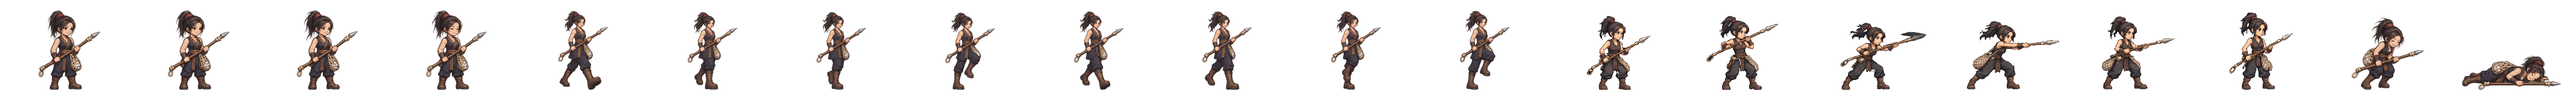
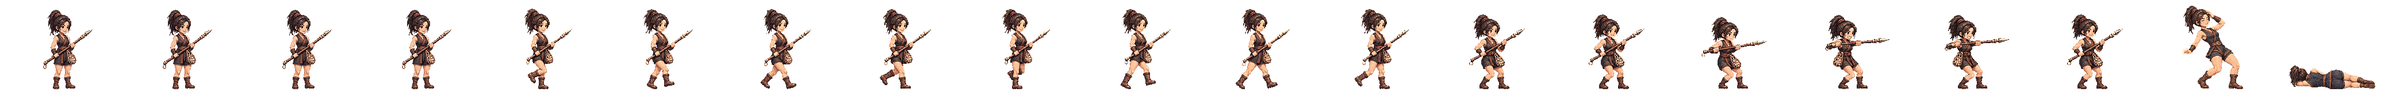
해녀 새 전투 띠를 게임에 넣음(서기·걷기·작살 찌르기·쓰러짐·젖은 머리 털기)
찌르기 뒤 판은 그림 도구가 거절해 앞 판 네 칸으로 여덟 칸을 짰다(타격 = 넷째 칸).
strip-build: 뒤 판이 없는 장수는 좁은 칸 공격 여덟 칸을 붙이지 않는다(넓은 칸 장수는 어차피 버리는 칸).
띠 검사 합격(경고: 공격 끝 칸 윗몸 15px 뒤) · 시험 2162 통과.

Claude-Session: https://claude.ai/code/session_01TRiuN7s6aDfSnaHxrkctmU

Changed region(s): [[0.4688, 0.0938, 1.0, 0.9688], [0.2188, 0.125, 0.4375, 0.9688], [0.0, 0.125, 0.1875, 0.9688]]

diff --git a/src/realm/data/spritePx.ts b/src/realm/data/spritePx.ts
@@ -1,3 +1,3 @@
 /** public/realm/anim-px/manifest.json 의 사본 — tools/sprite-normalize.mjs 가 만든다 (손으로 고치지 말 것). 칸 [가로, 세로] · feet = 발 줄(칸 위에서 y) · bodyPx = 서 있는 몸 키 */
 import { expandManifest } from './sprite-manifest.ts'
-export const SPRITE_PX: Readonly<Record<string, { readonly cell: readonly [number, number]; readonly feet: number; readonly bodyPx: number; readonly kind: 'general' | 'soldier' | 'folk' | 'crowd'; readonly cells: number }>> = expandManifest<{ readonly cell: readonly [number, number]; readonly feet: number; readonly bodyPx: number; readonly kind: 'general' | 'soldier' | 'folk' | 'crowd'; readonly cells: number }>([{"cell":[166,128],"feet":126,"bodyPx":124,"kind":"soldier","cells":20},{"cell":[116,128],"feet":126,"bodyPx":117,"kind":"soldier","cells":20},{"cell":[127,128],"feet":126,"bodyPx":116,"kind":"soldier","cells":20},{"cell":[269,128],"feet":126,"bodyPx":126,"kind":"soldier","cells":20},{"cell":[503,128],"feet":126,"bodyPx":127,"kind":"soldier","cells":20},{"cell":[614,128],"feet":126,"bodyPx":126,"kind":"soldier","cells":20},{"cell":[200,160],"feet":156,"bodyPx":138,"kind":"general","cells":20},{"cell":[208,160],"feet":155,"bodyPx":138,"kind":"general","cells":20},{"cell":[232,160],"feet":156,"bodyPx":138,"kind":"general","cells":20},{"cell":[208,160],"feet":154,"bodyPx":138,"kind":"general","cells":20},{"cell":[304,160],"feet":155,"bodyPx":135,"kind":"general","cells":20},{"cell":[224,160],"feet":156,"bodyPx":139,"kind":"general","cells":20},{"cell":[184,160],"feet":156,"bodyPx":138,"kind":"general","cells":20},{"cell":[208,160],"feet":154,"bodyPx":136,"kind":"general","cells":20},{"cell":[240,160],"feet":156,"bodyPx":138,"kind":"general","cells":20},{"cell":[208,160],"feet":156,"bodyPx":138,"kind":"general","cells":20},{"cell":[168,160],"feet":156,"bodyPx":138,"kind":"general","cells":20},{"cell":[192,160],"feet":156,"bodyPx":138,"kind":"general","cells":20},{"cell":[168,160],"feet":156,"bodyPx":124,"kind":"general","cells":20},{"cell":[216,160],"feet":156,"bodyPx":130,"kind":"general","cells":20},{"cell":[200,160],"feet":156,"bodyPx":116,"kind":"general","cells":20},{"cell":[200,160],"feet":156,"bodyPx":135,"kind":"general","cells":20},{"cell":[280,160],"feet":156,"bodyPx":138,"kind":"general","cells":20},{"cell":[232,160],"feet":155,"bodyPx":138,"kind":"general","cells":20},{"cell":[232,160],"feet":156,"bodyPx":134,"kind":"general","cells":20},{"cell":[144,160],"feet":156,"bodyPx":70,"kind":"general","cells":20},{"cell":[208,160],"feet":156,"bodyPx":70,"kind":"general","cells":20},{"cell":[192,160],"feet":156,"bodyPx":70,"kind":"general","cells":20},{"cell":[240,160],"feet":155,"bodyPx":138,"kind":"general","cells":20},{"cell":[160,160],"feet":156,"bodyPx":135,"kind":"general","cells":20},{"cell":[192,160],"feet":156,"bodyPx":128,"kind":"general","cells":20},{"cell":[224,160],"feet":155,"bodyPx":138,"kind":"general","cells":20},{"cell":[232,160],"feet":156,"bodyPx":139,"kind":"general","cells":20},{"cell":[264,160],"feet":155,"bodyPx":138,"kind":"general","cells":20},{"cell":[216,160],"feet":156,"bodyPx":138,"kind":"general","cells":20},{"cell":[208,160],"feet":156,"bodyPx":134,"kind":"general","cells":20},{"cell":[176,160],"feet":156,"bodyPx":130,"kind":"general","cells":20},{"cell":[248,160],"feet":156,"bodyPx":138,"kind":"general","cells":20},{"cell":[248,160],"feet":155,"bodyPx":138,"kind":"general","cells":20},{"cell":[192,160],"feet":155,"bodyPx":138,"kind":"general","cells":20},{"cell":[192,160],"feet":156,"bodyPx":124,"kind":"general","cells":20},{"cell":[208,160],"feet":154,"bodyPx":131,"kind":"general","cells":20},{"cell":[256,160],"feet":156,"bodyPx":138,"kind":"general","cells":20},{"cell":[232,160],"feet":156,"bodyPx":73,"kind":"general","cells":20},{"cell":[256,160],"feet":155,"bodyPx":138,"kind":"general","cells":20},{"cell":[224,160],"feet":156,"bodyPx":138,"kind":"general","cells":20},{"cell":[264,160],"feet":156,"bodyPx":138,"kind":"general","cells":20},{"cell":[224,160],"feet":156,"bodyPx":128,"kind":"general","cells":20},{"cell":[176,160],"feet":156,"bodyPx":129,"kind":"general","cells":20},{"cell":[208,160],"feet":156,"bodyPx":132,"kind":"general","cells":20},{"cell":[216,160],"feet":155,"bodyPx":138,"kind":"general","cells":20},{"cell":[184,160],"feet":156,"bodyPx":122,"kind":"general","cells":20},{"cell":[176,160],"feet":156,"bodyPx":138,"kind":"general","cells":20},{"cell":[280,160],"feet":155,"bodyPx":133,"kind":"general","cells":20},{"cell":[176,160],"feet":156,"bodyPx":70,"kind":"general","cells":20},{"cell":[186,128],"feet":126,"bodyPx":127,"kind":"soldier","cells":20},{"cell":[298,128],"feet":126,"bodyPx":126,"kind":"soldier","cells":20},{"cell":[82,128],"feet":126,"bodyPx":114,"kind":"folk","cells":8},{"cell":[134,128],"feet":126,"bodyPx":119,"kind":"soldier","cells":20},{"cell":[380,128],"feet":126,"bodyPx":124,"kind":"soldier","cells":20},{"cell":[114,128],"feet":126,"bodyPx":115,"kind":"soldier","cells":20},{"cell":[122,128],"feet":126,"bodyPx":114,"kind":"soldier","cells":20},{"cell":[254,128],"feet":126,"bodyPx":128,"kind":"soldier","cells":20},{"cell":[438,128],"feet":126,"bodyPx":126,"kind":"soldier","cells":20},{"cell":[88,128],"feet":126,"bodyPx":113,"kind":"folk","cells":8},{"cell":[100,128],"feet":126,"bodyPx":115,"kind":"folk","cells":8},{"cell":[108,128],"feet":126,"bodyPx":115,"kind":"folk","cells":8},{"cell":[63,128],"feet":126,"bodyPx":113,"kind":"folk","cells":8},{"cell":[69,96],"feet":96,"bodyPx":96,"kind":"crowd","cells":1},{"cell":[54,96],"feet":96,"bodyPx":96,"kind":"crowd","cells":1},{"cell":[47,96],"feet":96,"bodyPx":96,"kind":"crowd","cells":1},{"cell":[49,96],"feet":96,"bodyPx":96,"kind":"crowd","cells":1},{"cell":[57,96],"feet":96,"bodyPx":96,"kind":"crowd","cells":1},{"cell":[55,96],"feet":96,"bodyPx":96,"kind":"crowd","cells":1},{"cell":[45,96],"feet":96,"bodyPx":96,"kind":"crowd","cells":1},{"cell":[53,96],"feet":96,"bodyPx":96,"kind":"crowd","cells":1},{"cell":[64,96],"feet":96,"bodyPx":96,"kind":"crowd","cells":1},{"cell":[208,160],"feet":154,"bodyPx":139,"kind":"general","cells":20},{"cell":[184,160],"feet":156,"bodyPx":124,"kind":"general","cells":20},{"cell":[184,160],"feet":156,"bodyPx":134,"kind":"general","cells":20},{"cell":[224,160],"feet":156,"bodyPx":133,"kind":"general","cells":20},{"cell":[192,160],"feet":156,"bodyPx":135,"kind":"general","cells":20},{"cell":[184,160],"feet":156,"bodyPx":137,"kind":"general","cells":20},{"cell":[216,160],"feet":156,"bodyPx":134,"kind":"general","cells":20},{"cell":[216,160],"feet":156,"bodyPx":132,"kind":"general","cells":20},{"cell":[288,160],"feet":156,"bodyPx":138,"kind":"general","cells":20},{"cell":[192,160],"feet":156,"bodyPx":118,"kind":"general","cells":20},{"cell":[192,160],"feet":156,"bodyPx":134,"kind":"general","cells":20},{"cell":[192,160],"feet":157,"bodyPx":139,"kind":"general","cells":20},{"cell":[184,160],"feet":156,"bodyPx":128,"kind":"general","cells":20},{"cell":[240,160],"feet":156,"bodyPx":128,"kind":"general","cells":20},{"cell":[184,160],"feet":156,"bodyPx":132,"kind":"general","cells":20},{"cell":[208,160],"feet":156,"bodyPx":123,"kind":"general","cells":20},{"cell":[176,160],"feet":156,"bodyPx":116,"kind":"general","cells":20},{"cell":[272,160],"feet":156,"bodyPx":138,"kind":"general","cells":20},{"cell":[176,160],"feet":156,"bodyPx":122,"kind":"general","cells":20},{"cell":[232,160],"feet":156,"bodyPx":127,"kind":"general","cells":20},{"cell":[176,160],"feet":156,"bodyPx":137,"kind":"general","cells":20},{"cell":[184,160],"feet":156,"bodyPx":133,"kind":"general","cells":20}],[["axe",0],["bandit-chief",1],["bandit-club",2],["boat",3],["bow",4],["crossbow",5],["gen-adogan",6],["gen-alpyeong",7],["gen-ara",8],["gen-areum",9],["gen-aryeong",10],["gen-bakdal",6],["gen-baram",11],["gen-bdanbi",12],["gen-beom",13],["gen-beombal",12],["gen-beomi",14],["gen-bira",8],["gen-biryu",15],["gen-budeul",16],["gen-byeol",17],["gen-daemusin",18],["gen-daeso",19],["gen-dallae2",12],["gen-dalli",12],["gen-damul",20],["gen-danbi",15],["gen-dangung",17],["gen-darae",21],["gen-dokmudeom",7],["gen-duman",22],["gen-eomni",23],["gen-eureum",24],["gen-g-bow",25],["gen-g-spear",26],["gen-g-sword",27],["gen-gaennae",6],["gen-gamsil",28],["gen-gaon",29],["gen-geota",15],["gen-geumbawi",12],["gen-geumha",30],["gen-goeun",15],["gen-gom",31],["gen-gomok",15],["gen-gureum",28],["gen-guryema",17],["gen-gwaeyu",8],["gen-haebi",9],["gen-haedal",6],["gen-haesol",32],["gen-halla",7],["gen-heo",33],["gen-hneoul",12],["gen-hogong",34],["gen-hojin",15],["gen-horselord",35],["gen-hwalmi",36],["gen-hyeokgeose",17],["gen-hyeopbo",6],["gen-irang",15],["gen-jibaekho",37],["gen-jinha",38],["gen-jita",39],["gen-jumong",40],["gen-keundol",7],["gen-maehwa",41],["gen-maenun",17],["gen-malgalgi",42],["gen-mari",14],["gen-maro",37],["gen-maryeo",15],["gen-mdallae",32],["gen-mir",6],["gen-mount",43],["gen-mulbeom",44],["gen-mulsae",34],["gen-musoe",34],["gen-noeul",45],["gen-nuri",46],["gen-ocheongan",45],["gen-odi",38],["gen-odogan",6],["gen-ogan",17],["gen-oi",47],["gen-olddaeso",24],["gen-onjo",48],["gen-pidogan",15],["gen-sagong",31],["gen-sdallae",6],["gen-sincheongan",34],["gen-singwigan",34],["gen-sinneoul",23],["gen-sobeol",23],["gen-soebi",6],["gen-soebo",49],["gen-soenun",37],["gen-sogeumbi",50],["gen-songbi",45],["gen-songyang",51],["gen-sori",52],["gen-soseono",53],["gen-suro",17],["gen-tahae",6],["gen-tneoul",45],["gen-w-bow",25],["gen-w-spear",54],["gen-waechief",15],["gen-wan",34],["gen-yeodogan",15],["gen-yucheongan",15],["gen-yusugan",37],["horse",55],["marine",56],["migrant",57],["militia",58],["pike",59],["pirate-captain",60],["pirate-sword",61],["shield",62],["spear",63],["villager-builder",64],["villager-farmer",65],["villager-porter",66],["villager-woman",67],["crowd-b1",68],["crowd-b2",69],["crowd-b3",70],["crowd-b4",71],["crowd-b5",72],["crowd-b6",73],["crowd-f1",68],["crowd-f2",73],["crowd-f3",74],["crowd-f4",75],["crowd-f5",68],["crowd-f6",76],["gen-dalbit",15],["gen-base-g-07-drunk-warrior",17],["gen-base-g-40-anya-adan",15],["gen-base-w-13-young-archer",9],["gen-base-g-03-sea-trader",14],["gen-base-w-10-pirate-captain",77],["gen-base-w-64-miri-dallae",14],["gen-base-g-41-goja-bau",14],["gen-base-g-42-dokro-garam",46],["gen-base-g-09-farmer-conscript",34],["gen-base-w-02-goguryeo-lady",34],["gen-base-w-17-mahan-pearl-diver",45],["gen-base-g-17-saro-isageum",49],["gen-base-g-18-daegaya-king",78],["gen-base-g-35-dabeol-dalgu",15],["gen-base-g-19-sabeol-veteran",34],["gen-base-w-23-usisan-whale-queen",34],["gen-base-g-36-gammun-gamdol",45],["gen-base-g-20-samul-sea-lord",42],["gen-base-g-37-eumjeup-jeup",12],["gen-base-g-38-chopal-palmae",17],["gen-base-w-75-daegaya-soemoe",17],["gen-base-g-45-dabeol-deulgae",12],["gen-base-g-04-jinhan-giant",15],["gen-base-g-08-veteran",15],["gen-base-w-18-jinhan-salt-widow",15],["gen-base-w-12-court-dancer",79],["gen-base-w-83-gyeonji-beodeul",80],["gen-base-w-05-baekje-queen",81],["gen-base-w-21-baekje-court-dancer",12],["gen-base-g-01-master-smith",82],["gen-base-g-93-jomun-solgae",36],["gen-base-g-57-bihwa-neup",14],["gen-base-w-72-eumjeup-beol",15],["gen-base-w-102-garak-dana",34],["gen-base-g-68-baekje-onnuri",15],["gen-base-w-27-mokji-jinha",6],["gen-base-g-22-ungcheon-gomnae",6],["gen-base-g-23-sangdang-soedal",15],["gen-base-g-24-wansan-onsan",6],["gen-base-g-25-balla-keunmoe",34],["gen-base-g-61-heomcheuk-bawi",34],["gen-base-g-88-wander-soeul",45],["gen-base-w-14-feast-spy",6],["gen-base-g-12-silla-youth",83],["gen-base-w-08-mahan-warrior",14],["gen-base-g-62-beonye-hanul",14],["gen-base-g-63-heomcheuk-beogeum",15],["gen-base-g-84-wander-seoneul",15],["gen-base-w-50-siljik-mulga",34],["gen-base-g-46-uga-nureongso",34],["gen-base-w-80-usan-gangchi",14],["gen-base-g-47-guga-sanyanggae",34],["gen-base-w-76-gampyeong-baetsagong",37],["gen-base-g-05-mahan-chieftain",84],["gen-base-g-58-usan-uhae",15],["gen-base-g-27-maek-maekdol",15],["gen-base-w-53-hwanna-gabi",16],["gen-base-w-29-golpo-janmul",37],["gen-base-g-53-baekje-haeru",6],["gen-base-w-71-yeonna-neoul",14],["gen-base-w-79-yangmaek-solmae",34],["gen-base-w-34-chopal-deulme",46],["gen-base-g-44-maga-malgup",85],["gen-base-w-31-dabeol-dalbit",77],["gen-base-g-51-biryuna-mulgyeol",45],["gen-base-g-48-gwanna-musoe",15],["gen-base-g-32-uga-sodu",8],["gen-base-g-49-goguryeo-sona",86],["gen-base-g-30-gwanna-soemoe",45],["gen-base-g-52-tamna-oreum",12],["gen-base-g-29-yeonna-myeongsol",40],["gen-base-w-56-dongokjeo-sogeum",87],["gen-base-g-54-mokji-mahan",8],["gen-base-g-33-jeoga-metdol",17],["gen-base-w-36-baekje-maena",17],["gen-base-w-38-sangdang-bulmae",6],["gen-base-w-39-gosaburi-galmae",88],["gen-base-w-40-mujin-munui",49],["gen-base-w-41-hwanna-beodeul",89],["gen-base-w-43-uga-nuri",42],["gen-base-w-45-tamna-oreumbi",12],["gen-base-g-60-golbeol-golgae",12],["gen-base-g-61-apdok-ap",34],["gen-base-g-62-gammun-gamnamu",6],["gen-base-g-63-chopal-yeoul",37],["gen-base-g-64-michuhol-sogeumkkun",14],["gen-base-g-65-sangdang-soemangchi",45],["gen-base-g-66-geonma-malbalgup",90],["gen-base-g-67-gosaburi-buri",91],["gen-base-g-68-mujin-bitgoeul",12],["gen-base-g-69-goryong-yong",45],["gen-base-g-70-siljik-pado",14],["gen-base-w-81-byeokjin-byeolbit",8],["gen-base-w-46-geonma-maru",37],["gen-base-w-48-mujin-mudeung",14],["gen-base-g-26-gampyeong-gaetbeol",8],["gen-base-g-60-eupcha-hangyeol",92],["gen-base-g-15-shaman-man",34],["gen-base-g-85-wander-ure",37],["gen-base-g-43-hwanna-amnok",15],["gen-base-g-50-bullae-gwaha",81],["gen-base-g-55-saro-bakdal",15],["gen-base-g-56-haseulla-gwahama",6],["gen-base-w-06-buyeo-huntress",14],["gen-base-w-22-dongye-tiger-huntress",14],["gen-base-w-25-bihwa-priestess",34],["gen-base-w-24-apdok-queen",12],["gen-base-w-61-iseo-sinae",15],["gen-base-w-26-iseo-tomboy-general",46],["gen-base-g-59-yangmaek-maekson",93],["gen-aw1-haebi",45],["gen-aw1-soseono",94],["gen-aw1-gamsil",12],["gen-aw1-mir",52],["gen-aw1-dangung",6],["gen-aw1-ara",45],["gen-aw1-jumong",95],["gen-aw1-onjo",96],["gen-aw1-base-w-83-gyeonji-beodeul",17],["gen-aw1-heo",46],["gen-aw1-base-g-38-chopal-palmae",6],["gen-aw1-base-w-25-bihwa-priestess",79],["gen-aw1-sori",16],["gen-aw1-gomok",6],["gen-aw1-irang",17],["gen-aw1-budeul",16],["gen-aw1-gom",14],["gen-aw1-sdallae",6],["gen-aw1-base-w-13-young-archer",6],["gen-aw1-base-w-36-baekje-maena",97],["gen-aw1-base-g-09-farmer-conscript",46],["gen-aw1-base-w-02-goguryeo-lady",98],["gen-aw1-haedal",12],["gen-aw1-hogong",6],["gen-aw1-maehwa",52],["gen-aw1-base-w-06-buyeo-huntress",8],["gen-aw1-base-w-08-mahan-warrior",45],["gen-aw1-base-w-29-golpo-janmul",45],["gen-aw1-base-w-31-dabeol-dalbit",17],["gen-aw1-base-w-38-sangdang-bulmae",16],["gen-aw1-bira",34],["gen-aw1-base-w-53-hwanna-gabi",16],["gen-aw1-base-w-56-dongokjeo-sogeum",52],["gen-aw1-base-w-72-eumjeup-beol",17],["gen-aw1-bdanbi",16],["gen-aw1-beom",12],["gen-aw1-beombal",12],["gen-aw1-byeol",17],["gen-aw1-dalli",52],["gen-aw1-malgalgi",37],["gen-aw1-sincheongan",34]])
+export const SPRITE_PX: Readonly<Record<string, { readonly cell: readonly [number, number]; readonly feet: number; readonly bodyPx: number; readonly kind: 'general' | 'soldier' | 'folk' | 'crowd'; readonly cells: number }>> = expandManifest<{ readonly cell: readonly [number, number]; readonly feet: number; readonly bodyPx: number; readonly kind: 'general' | 'soldier' | 'folk' | 'crowd'; readonly cells: number }>([{"cell":[166,128],"feet":126,"bodyPx":124,"kind":"soldier","cells":20},{"cell":[116,128],"feet":126,"bodyPx":117,"kind":"soldier","cells":20},{"cell":[127,128],"feet":126,"bodyPx":116,"kind":"soldier","cells":20},{"cell":[269,128],"feet":126,"bodyPx":126,"kind":"soldier","cells":20},{"cell":[503,128],"feet":126,"bodyPx":127,"kind":"soldier","cells":20},{"cell":[614,128],"feet":126,"bodyPx":126,"kind":"soldier","cells":20},{"cell":[200,160],"feet":156,"bodyPx":138,"kind":"general","cells":20},{"cell":[208,160],"feet":155,"bodyPx":138,"kind":"general","cells":20},{"cell":[232,160],"feet":156,"bodyPx":138,"kind":"general","cells":20},{"cell":[208,160],"feet":154,"bodyPx":138,"kind":"general","cells":20},{"cell":[304,160],"feet":155,"bodyPx":135,"kind":"general","cells":20},{"cell":[224,160],"feet":156,"bodyPx":139,"kind":"general","cells":20},{"cell":[184,160],"feet":156,"bodyPx":138,"kind":"general","cells":20},{"cell":[208,160],"feet":154,"bodyPx":136,"kind":"general","cells":20},{"cell":[240,160],"feet":156,"bodyPx":138,"kind":"general","cells":20},{"cell":[208,160],"feet":156,"bodyPx":138,"kind":"general","cells":20},{"cell":[168,160],"feet":156,"bodyPx":138,"kind":"general","cells":20},{"cell":[192,160],"feet":156,"bodyPx":138,"kind":"general","cells":20},{"cell":[168,160],"feet":156,"bodyPx":124,"kind":"general","cells":20},{"cell":[216,160],"feet":156,"bodyPx":130,"kind":"general","cells":20},{"cell":[200,160],"feet":156,"bodyPx":116,"kind":"general","cells":20},{"cell":[200,160],"feet":156,"bodyPx":135,"kind":"general","cells":20},{"cell":[280,160],"feet":156,"bodyPx":138,"kind":"general","cells":20},{"cell":[232,160],"feet":155,"bodyPx":138,"kind":"general","cells":20},{"cell":[232,160],"feet":156,"bodyPx":134,"kind":"general","cells":20},{"cell":[144,160],"feet":156,"bodyPx":70,"kind":"general","cells":20},{"cell":[208,160],"feet":156,"bodyPx":70,"kind":"general","cells":20},{"cell":[192,160],"feet":156,"bodyPx":70,"kind":"general","cells":20},{"cell":[240,160],"feet":155,"bodyPx":138,"kind":"general","cells":20},{"cell":[160,160],"feet":156,"bodyPx":135,"kind":"general","cells":20},{"cell":[192,160],"feet":156,"bodyPx":128,"kind":"general","cells":20},{"cell":[224,160],"feet":155,"bodyPx":138,"kind":"general","cells":20},{"cell":[232,160],"feet":156,"bodyPx":139,"kind":"general","cells":20},{"cell":[264,160],"feet":155,"bodyPx":138,"kind":"general","cells":20},{"cell":[216,160],"feet":156,"bodyPx":138,"kind":"general","cells":20},{"cell":[208,160],"feet":156,"bodyPx":134,"kind":"general","cells":20},{"cell":[176,160],"feet":156,"bodyPx":130,"kind":"general","cells":20},{"cell":[248,160],"feet":156,"bodyPx":138,"kind":"general","cells":20},{"cell":[248,160],"feet":155,"bodyPx":138,"kind":"general","cells":20},{"cell":[192,160],"feet":155,"bodyPx":138,"kind":"general","cells":20},{"cell":[192,160],"feet":156,"bodyPx":124,"kind":"general","cells":20},{"cell":[208,160],"feet":154,"bodyPx":131,"kind":"general","cells":20},{"cell":[256,160],"feet":156,"bodyPx":138,"kind":"general","cells":20},{"cell":[232,160],"feet":156,"bodyPx":73,"kind":"general","cells":20},{"cell":[256,160],"feet":155,"bodyPx":138,"kind":"general","cells":20},{"cell":[224,160],"feet":156,"bodyPx":138,"kind":"general","cells":20},{"cell":[264,160],"feet":156,"bodyPx":138,"kind":"general","cells":20},{"cell":[224,160],"feet":156,"bodyPx":128,"kind":"general","cells":20},{"cell":[176,160],"feet":156,"bodyPx":129,"kind":"general","cells":20},{"cell":[208,160],"feet":156,"bodyPx":132,"kind":"general","cells":20},{"cell":[216,160],"feet":155,"bodyPx":138,"kind":"general","cells":20},{"cell":[184,160],"feet":156,"bodyPx":122,"kind":"general","cells":20},{"cell":[176,160],"feet":156,"bodyPx":138,"kind":"general","cells":20},{"cell":[280,160],"feet":155,"bodyPx":133,"kind":"general","cells":20},{"cell":[176,160],"feet":156,"bodyPx":70,"kind":"general","cells":20},{"cell":[186,128],"feet":126,"bodyPx":127,"kind":"soldier","cells":20},{"cell":[298,128],"feet":126,"bodyPx":126,"kind":"soldier","cells":20},{"cell":[82,128],"feet":126,"bodyPx":114,"kind":"folk","cells":8},{"cell":[134,128],"feet":126,"bodyPx":119,"kind":"soldier","cells":20},{"cell":[380,128],"feet":126,"bodyPx":124,"kind":"soldier","cells":20},{"cell":[114,128],"feet":126,"bodyPx":115,"kind":"soldier","cells":20},{"cell":[122,128],"feet":126,"bodyPx":114,"kind":"soldier","cells":20},{"cell":[254,128],"feet":126,"bodyPx":128,"kind":"soldier","cells":20},{"cell":[438,128],"feet":126,"bodyPx":126,"kind":"soldier","cells":20},{"cell":[88,128],"feet":126,"bodyPx":113,"kind":"folk","cells":8},{"cell":[100,128],"feet":126,"bodyPx":115,"kind":"folk","cells":8},{"cell":[108,128],"feet":126,"bodyPx":115,"kind":"folk","cells":8},{"cell":[63,128],"feet":126,"bodyPx":113,"kind":"folk","cells":8},{"cell":[69,96],"feet":96,"bodyPx":96,"kind":"crowd","cells":1},{"cell":[54,96],"feet":96,"bodyPx":96,"kind":"crowd","cells":1},{"cell":[47,96],"feet":96,"bodyPx":96,"kind":"crowd","cells":1},{"cell":[49,96],"feet":96,"bodyPx":96,"kind":"crowd","cells":1},{"cell":[57,96],"feet":96,"bodyPx":96,"kind":"crowd","cells":1},{"cell":[55,96],"feet":96,"bodyPx":96,"kind":"crowd","cells":1},{"cell":[45,96],"feet":96,"bodyPx":96,"kind":"crowd","cells":1},{"cell":[53,96],"feet":96,"bodyPx":96,"kind":"crowd","cells":1},{"cell":[64,96],"feet":96,"bodyPx":96,"kind":"crowd","cells":1},{"cell":[208,160],"feet":154,"bodyPx":139,"kind":"general","cells":20},{"cell":[184,160],"feet":156,"bodyPx":124,"kind":"general","cells":20},{"cell":[184,160],"feet":156,"bodyPx":134,"kind":"general","cells":20},{"cell":[224,160],"feet":156,"bodyPx":133,"kind":"general","cells":20},{"cell":[192,160],"feet":156,"bodyPx":135,"kind":"general","cells":20},{"cell":[184,160],"feet":156,"bodyPx":137,"kind":"general","cells":20},{"cell":[216,160],"feet":156,"bodyPx":134,"kind":"general","cells":20},{"cell":[216,160],"feet":156,"bodyPx":132,"kind":"general","cells":20},{"cell":[288,160],"feet":156,"bodyPx":138,"kind":"general","cells":20},{"cell":[192,160],"feet":156,"bodyPx":118,"kind":"general","cells":20},{"cell":[192,160],"feet":156,"bodyPx":134,"kind":"general","cells":20},{"cell":[192,160],"feet":157,"bodyPx":139,"kind":"general","cells":20},{"cell":[184,160],"feet":156,"bodyPx":128,"kind":"general","cells":20},{"cell":[240,160],"feet":156,"bodyPx":128,"kind":"general","cells":20},{"cell":[184,160],"feet":156,"bodyPx":132,"kind":"general","cells":20},{"cell":[208,160],"feet":156,"bodyPx":123,"kind":"general","cells":20},{"cell":[176,160],"feet":156,"bodyPx":116,"kind":"general","cells":20},{"cell":[272,160],"feet":156,"bodyPx":138,"kind":"general","cells":20},{"cell":[176,160],"feet":156,"bodyPx":122,"kind":"general","cells":20},{"cell":[232,160],"feet":156,"bodyPx":127,"kind":"general","cells":20},{"cell":[176,160],"feet":156,"bodyPx":137,"kind":"general","cells":20},{"cell":[184,160],"feet":156,"bodyPx":133,"kind":"general","cells":20}],[["axe",0],["bandit-chief",1],["bandit-club",2],["boat",3],["bow",4],["crossbow",5],["gen-adogan",6],["gen-alpyeong",7],["gen-ara",8],["gen-areum",9],["gen-aryeong",10],["gen-bakdal",6],["gen-baram",11],["gen-bdanbi",12],["gen-beom",13],["gen-beombal",12],["gen-beomi",14],["gen-bira",8],["gen-biryu",15],["gen-budeul",16],["gen-byeol",17],["gen-daemusin",18],["gen-daeso",19],["gen-dallae2",12],["gen-dalli",12],["gen-damul",20],["gen-danbi",15],["gen-dangung",17],["gen-darae",21],["gen-dokmudeom",7],["gen-duman",22],["gen-eomni",23],["gen-eureum",24],["gen-g-bow",25],["gen-g-spear",26],["gen-g-sword",27],["gen-gaennae",6],["gen-gamsil",28],["gen-gaon",29],["gen-geota",15],["gen-geumbawi",12],["gen-geumha",30],["gen-goeun",15],["gen-gom",31],["gen-gomok",15],["gen-gureum",28],["gen-guryema",17],["gen-gwaeyu",8],["gen-haebi",9],["gen-haedal",6],["gen-haesol",32],["gen-halla",7],["gen-heo",33],["gen-hneoul",12],["gen-hogong",34],["gen-hojin",15],["gen-horselord",35],["gen-hwalmi",36],["gen-hyeokgeose",17],["gen-hyeopbo",6],["gen-irang",15],["gen-jibaekho",37],["gen-jinha",38],["gen-jita",39],["gen-jumong",40],["gen-keundol",7],["gen-maehwa",41],["gen-maenun",17],["gen-malgalgi",42],["gen-mari",14],["gen-maro",37],["gen-maryeo",15],["gen-mdallae",32],["gen-mir",6],["gen-mount",43],["gen-mulbeom",44],["gen-mulsae",34],["gen-musoe",34],["gen-noeul",45],["gen-nuri",46],["gen-ocheongan",45],["gen-odi",38],["gen-odogan",6],["gen-ogan",17],["gen-oi",47],["gen-olddaeso",24],["gen-onjo",48],["gen-pidogan",15],["gen-sagong",31],["gen-sdallae",6],["gen-sincheongan",34],["gen-singwigan",34],["gen-sinneoul",23],["gen-sobeol",23],["gen-soebi",6],["gen-soebo",49],["gen-soenun",37],["gen-sogeumbi",50],["gen-songbi",45],["gen-songyang",51],["gen-sori",52],["gen-soseono",53],["gen-suro",17],["gen-tahae",6],["gen-tneoul",45],["gen-w-bow",25],["gen-w-spear",54],["gen-waechief",15],["gen-wan",34],["gen-yeodogan",15],["gen-yucheongan",15],["gen-yusugan",37],["horse",55],["marine",56],["migrant",57],["militia",58],["pike",59],["pirate-captain",60],["pirate-sword",61],["shield",62],["spear",63],["villager-builder",64],["villager-farmer",65],["villager-porter",66],["villager-woman",67],["crowd-b1",68],["crowd-b2",69],["crowd-b3",70],["crowd-b4",71],["crowd-b5",72],["crowd-b6",73],["crowd-f1",68],["crowd-f2",73],["crowd-f3",74],["crowd-f4",75],["crowd-f5",68],["crowd-f6",76],["gen-dalbit",15],["gen-base-g-07-drunk-warrior",17],["gen-base-g-40-anya-adan",15],["gen-base-w-13-young-archer",9],["gen-base-g-03-sea-trader",14],["gen-base-w-10-pirate-captain",77],["gen-base-w-64-miri-dallae",14],["gen-base-g-41-goja-bau",14],["gen-base-g-42-dokro-garam",46],["gen-base-g-09-farmer-conscript",34],["gen-base-w-02-goguryeo-lady",34],["gen-base-w-17-mahan-pearl-diver",9],["gen-base-g-17-saro-isageum",49],["gen-base-g-18-daegaya-king",78],["gen-base-g-35-dabeol-dalgu",15],["gen-base-g-19-sabeol-veteran",34],["gen-base-w-23-usisan-whale-queen",34],["gen-base-g-36-gammun-gamdol",45],["gen-base-g-20-samul-sea-lord",42],["gen-base-g-37-eumjeup-jeup",12],["gen-base-g-38-chopal-palmae",17],["gen-base-w-75-daegaya-soemoe",17],["gen-base-g-45-dabeol-deulgae",12],["gen-base-g-04-jinhan-giant",15],["gen-base-g-08-veteran",15],["gen-base-w-18-jinhan-salt-widow",15],["gen-base-w-12-court-dancer",79],["gen-base-w-83-gyeonji-beodeul",80],["gen-base-w-05-baekje-queen",81],["gen-base-w-21-baekje-court-dancer",12],["gen-base-g-01-master-smith",82],["gen-base-g-93-jomun-solgae",36],["gen-base-g-57-bihwa-neup",14],["gen-base-w-72-eumjeup-beol",15],["gen-base-w-102-garak-dana",34],["gen-base-g-68-baekje-onnuri",15],["gen-base-w-27-mokji-jinha",6],["gen-base-g-22-ungcheon-gomnae",6],["gen-base-g-23-sangdang-soedal",15],["gen-base-g-24-wansan-onsan",6],["gen-base-g-25-balla-keunmoe",34],["gen-base-g-61-heomcheuk-bawi",34],["gen-base-g-88-wander-soeul",45],["gen-base-w-14-feast-spy",6],["gen-base-g-12-silla-youth",83],["gen-base-w-08-mahan-warrior",14],["gen-base-g-62-beonye-hanul",14],["gen-base-g-63-heomcheuk-beogeum",15],["gen-base-g-84-wander-seoneul",15],["gen-base-w-50-siljik-mulga",34],["gen-base-g-46-uga-nureongso",34],["gen-base-w-80-usan-gangchi",14],["gen-base-g-47-guga-sanyanggae",34],["gen-base-w-76-gampyeong-baetsagong",37],["gen-base-g-05-mahan-chieftain",84],["gen-base-g-58-usan-uhae",15],["gen-base-g-27-maek-maekdol",15],["gen-base-w-53-hwanna-gabi",16],["gen-base-w-29-golpo-janmul",37],["gen-base-g-53-baekje-haeru",6],["gen-base-w-71-yeonna-neoul",14],["gen-base-w-79-yangmaek-solmae",34],["gen-base-w-34-chopal-deulme",46],["gen-base-g-44-maga-malgup",85],["gen-base-w-31-dabeol-dalbit",77],["gen-base-g-51-biryuna-mulgyeol",45],["gen-base-g-48-gwanna-musoe",15],["gen-base-g-32-uga-sodu",8],["gen-base-g-49-goguryeo-sona",86],["gen-base-g-30-gwanna-soemoe",45],["gen-base-g-52-tamna-oreum",12],["gen-base-g-29-yeonna-myeongsol",40],["gen-base-w-56-dongokjeo-sogeum",87],["gen-base-g-54-mokji-mahan",8],["gen-base-g-33-jeoga-metdol",17],["gen-base-w-36-baekje-maena",17],["gen-base-w-38-sangdang-bulmae",6],["gen-base-w-39-gosaburi-galmae",88],["gen-base-w-40-mujin-munui",49],["gen-base-w-41-hwanna-beodeul",89],["gen-base-w-43-uga-nuri",42],["gen-base-w-45-tamna-oreumbi",12],["gen-base-g-60-golbeol-golgae",12],["gen-base-g-61-apdok-ap",34],["gen-base-g-62-gammun-gamnamu",6],["gen-base-g-63-chopal-yeoul",37],["gen-base-g-64-michuhol-sogeumkkun",14],["gen-base-g-65-sangdang-soemangchi",45],["gen-base-g-66-geonma-malbalgup",90],["gen-base-g-67-gosaburi-buri",91],["gen-base-g-68-mujin-bitgoeul",12],["gen-base-g-69-goryong-yong",45],["gen-base-g-70-siljik-pado",14],["gen-base-w-81-byeokjin-byeolbit",8],["gen-base-w-46-geonma-maru",37],["gen-base-w-48-mujin-mudeung",14],["gen-base-g-26-gampyeong-gaetbeol",8],["gen-base-g-60-eupcha-hangyeol",92],["gen-base-g-15-shaman-man",34],["gen-base-g-85-wander-ure",37],["gen-base-g-43-hwanna-amnok",15],["gen-base-g-50-bullae-gwaha",81],["gen-base-g-55-saro-bakdal",15],["gen-base-g-56-haseulla-gwahama",6],["gen-base-w-06-buyeo-huntress",14],["gen-base-w-22-dongye-tiger-huntress",14],["gen-base-w-25-bihwa-priestess",34],["gen-base-w-24-apdok-queen",12],["gen-base-w-61-iseo-sinae",15],["gen-base-w-26-iseo-tomboy-general",46],["gen-base-g-59-yangmaek-maekson",93],["gen-aw1-haebi",45],["gen-aw1-soseono",94],["gen-aw1-gamsil",12],["gen-aw1-mir",52],["gen-aw1-dangung",6],["gen-aw1-ara",45],["gen-aw1-jumong",95],["gen-aw1-onjo",96],["gen-aw1-base-w-83-gyeonji-beodeul",17],["gen-aw1-heo",46],["gen-aw1-base-g-38-chopal-palmae",6],["gen-aw1-base-w-25-bihwa-priestess",79],["gen-aw1-sori",16],["gen-aw1-gomok",6],["gen-aw1-irang",17],["gen-aw1-budeul",16],["gen-aw1-gom",14],["gen-aw1-sdallae",6],["gen-aw1-base-w-13-young-archer",6],["gen-aw1-base-w-36-baekje-maena",97],["gen-aw1-base-g-09-farmer-conscript",46],["gen-aw1-base-w-02-goguryeo-lady",98],["gen-aw1-haedal",12],["gen-aw1-hogong",6],["gen-aw1-maehwa",52],["gen-aw1-base-w-06-buyeo-huntress",8],["gen-aw1-base-w-08-mahan-warrior",45],["gen-aw1-base-w-29-golpo-janmul",45],["gen-aw1-base-w-31-dabeol-dalbit",17],["gen-aw1-base-w-38-sangdang-bulmae",16],["gen-aw1-bira",34],["gen-aw1-base-w-53-hwanna-gabi",16],["gen-aw1-base-w-56-dongokjeo-sogeum",52],["gen-aw1-base-w-72-eumjeup-beol",17],["gen-aw1-bdanbi",16],["gen-aw1-beom",12],["gen-aw1-beombal",12],["gen-aw1-byeol",17],["gen-aw1-dalli",52],["gen-aw1-malgalgi",37],["gen-aw1-sincheongan",34]])

diff --git a/src/duel/view.ts b/src/duel/view.ts
@@ -100,7 +100,7 @@ const crowdFront = [1, 2, 3, 4, 5, 6].map((i) => img(`realm/duel/crowd/b${i}.png
 const crowdReady = (set: HTMLImageElement[]): boolean => set.every((im) => im.complete && im.naturalWidth > 0)
 const pxMode = cfg.px !== false && params.get('px') !== '0'
 /** 겨루기 전용 옛 띠(duel/sprites) 대신 열전과 같은 도트 띠(anim-px)를 쓰는 장수 — 두 판에서 같은 모습 · 서기 계획·쓰러지는 칸도 같다 (11-23 범 · 매화 · 달빛 · 11-24 해비 · 아룸) */
-const PX_DUEL: ReadonlySet<string> = new Set(['beom', 'maehwa', 'base-w-31-dabeol-dalbit', 'haebi', 'areum', 'base-w-13-young-archer', 'base-w-10-pirate-captain'])
+const PX_DUEL: ReadonlySet<string> = new Set(['beom', 'maehwa', 'base-w-31-dabeol-dalbit', 'haebi', 'areum', 'base-w-13-young-archer', 'base-w-10-pirate-captain', 'base-w-17-mahan-pearl-diver'])
 /** 띠 그림 — 기본은 anim-px(도트 규격) 먼저, 없으면 옛 띠로 (img 의 onerror 가 갈아 끼운다) */
 const strip = (s: string): HTMLImageElement => pxMode
   ? DUEL_ATLASES[s] !== undefined && !PX_DUEL.has(s) ? img(`realm/duel/sprites/gen-${s}.png`, `realm/anim-px/gen-${s}.png`)

diff --git a/src/tune/params.ts b/src/tune/params.ts
@@ -1417,6 +1417,7 @@ export const HAEBI_IDLE = {
     'base-w-31-dabeol-dalbit': { cells: 26, base: [0, 1], hold: 2.4, fall: [18, 20, 21, 19], quirk: [22, 23, 24, 25], quirkTimes: [.28, .42, .3, .25] },
     'base-w-13-young-archer': { cells: 26, base: [0, 1], hold: 2.4, fall: [18, 20, 21, 19], quirk: [22, 23, 24, 25], quirkTimes: [.28, .3, .42, .25] },
     'base-w-10-pirate-captain': { cells: 34, base: [0, 1], hold: 2.4, fall: [18, 20, 21, 19], quirk: [22, 23, 24, 25], quirkTimes: [.3, .32, .4, .28], attack: { cells: [26, 27, 28, 29, 30, 31, 32, 33], times: [.09, .08, .11, .05, .15, .07, .08, .12], hit: 4 }, xGeom: { h: 224, root: 92, foot: 216 } },
+    'base-w-17-mahan-pearl-diver': { cells: 34, base: [0, 1], hold: 2.4, fall: [18, 20, 21, 19], quirk: [22, 23, 24, 25], quirkTimes: [.3, .32, .4, .28], attack: { cells: [26, 27, 28, 29, 30, 31, 32, 33], times: [.09, .08, .11, .12, .12, .08, .08, .12], hit: 3 }, xGeom: { h: 224, root: 92, foot: 216 } },
   },
 } as const
 export const HAEBI_ANIM = {

diff --git a/src/raid/hero-hd.ts b/src/raid/hero-hd.ts
@@ -47,7 +47,6 @@ export const HERO_HD: Readonly<Record<string, string>> = {
   'anim-px/gen-base-w-22-dongye-tiger-huntress.png': 'anim-px/gen-base-w-22-dongye-tiger-huntress_hd.png',
   'anim-px/gen-base-w-21-baekje-court-dancer.png': 'anim-px/gen-base-w-21-baekje-court-dancer_hd.png',
   'anim-px/gen-base-w-18-jinhan-salt-widow.png': 'anim-px/gen-base-w-18-jinhan-salt-widow_hd.png',
-  'anim-px/gen-base-w-17-mahan-pearl-diver.png': 'anim-px/gen-base-w-17-mahan-pearl-diver_hd.png',
   'anim-px/gen-base-w-14-feast-spy.png': 'anim-px/gen-base-w-14-feast-spy_hd.png',
   'anim-px/gen-base-w-12-court-dancer.png': 'anim-px/gen-base-w-12-court-dancer_hd.png',
   'anim-px/gen-aw1-base-w-13-young-archer.png': 'anim-px/gen-aw1-base-w-13-young-archer_hd.png',

diff --git a/tools/sprite-kit/strip-build.py b/tools/sprite-kit/strip-build.py
@@ -54,7 +54,8 @@ def main(name, atk, out):
         if os.path.exists(f'{PXD}/{name}-quirk-1.png'):
             frames += [feet_fixed(cell('quirk', i)) for i in (1, 2, 3, 4)]
         # 26~33 = 여덟 칸 공격(준비 2 · 휘두름 3 · 지나감 2 · 거둠 1 · 타격 칸 = 넷째) — 개성 동작 네 칸이 있어야 번호가 맞는다
-        if os.path.exists(f'{PXD}/{name}-{atk}8-a-1.png') and os.path.exists(f'{PXD}/{name}-quirk-1.png'):
+        #   뒤 판(b)이 없는 장수(그림 도구 거절 · 해녀)는 붙이지 않는다 — 넓은 칸 장수는 이 좁은 칸을 버리고 anim-harness 가 cells8 로 다시 짠다
+        if all(os.path.exists(f'{PXD}/{name}-{atk}8-{t}-1.png') for t in 'ab') and os.path.exists(f'{PXD}/{name}-quirk-1.png'):
             frames += [cell(atk + '8-a', i) for i in (1, 2, 3, 4)] + [cell(atk + '8-b', i) for i in (1, 2, 3, 4)]
     # align: 서기·공격 칸의 머리 가로 자리를 걷기 칸에 맞춘다 (활처럼 한쪽으로 뻗은 물건을 든 장수는 테두리 가운데와 몸 가운데가 다르다)
     if 'align' in sys.argv[4:]:
